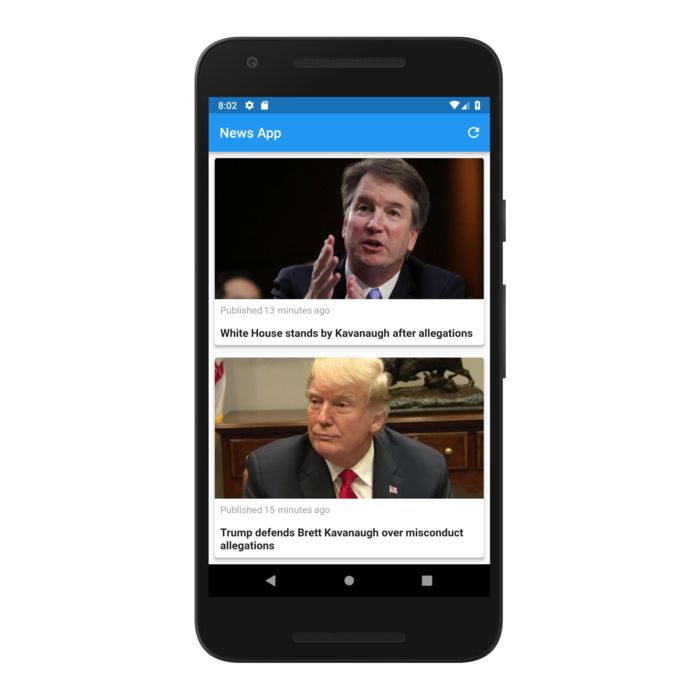
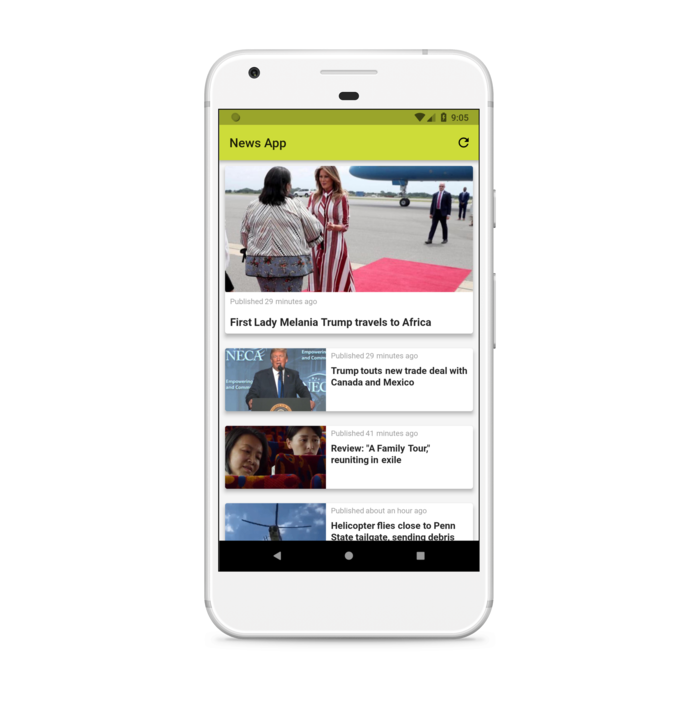
New layout and screenshots

diff --git a/lib/ui/HomeNormal.dart b/lib/ui/HomeNormal.dart
@@ -1,0 +1,73 @@
+import 'package:flutter/material.dart';
+import 'package:timeago/timeago.dart' as timeago;
+import 'package:transparent_image/transparent_image.dart';
+
+class HomeNormal extends StatelessWidget
+{
+    final article;
+
+    HomeNormal(this.article);
+
+    @override
+    Widget build(BuildContext context) {
+        final bool isImageExists = article["urlToImage"] != null;
+
+        final _imageCover = SizedBox(
+            child: isImageExists ?
+                FadeInImage.memoryNetwork(
+                    placeholder: kTransparentImage,
+                    image: article["urlToImage"],
+                    width: 160.0,
+                    height: 100.0,
+                    fit: BoxFit.cover
+                )
+            : null,
+        );
+
+        final _published = Padding(
+            padding: const EdgeInsets.fromLTRB(8.0, 5.0, 4.0, 4.0),
+            child: Text(
+                "Published " + timeago.format(DateTime.parse(article["publishedAt"]), locale: "en"),
+                style: TextStyle(
+                    fontSize: 12.0,
+                    color: Colors.grey[500],
+                ),
+            ),
+        );
+
+        final _title = Padding(
+            padding: const EdgeInsets.fromLTRB(8.0, 4.0, 4.0, 4.0),
+            child: Text(
+                article["title"],
+                style: TextStyle(
+                    fontSize: 15.0,
+                    fontWeight: FontWeight.bold,
+                ),
+            ),
+        );
+
+        return Container(
+            padding: EdgeInsets.fromLTRB(5.0, 5.0, 5.0, 10.0),
+            child: Card(
+                elevation: 5.0,
+                child: Row(
+                    crossAxisAlignment: CrossAxisAlignment.start,
+                    children: <Widget>[
+                        Container(
+                            child: _imageCover,
+                        ),
+                        Expanded(
+                            child: Column(
+                                crossAxisAlignment: CrossAxisAlignment.start,
+                                children: <Widget>[
+                                    _published,
+                                    _title,
+                                ],
+                            ),
+                        ),
+                    ],
+                ),
+            ),
+        );
+    }
+}

diff --git a/lib/ui/HomePage.dart b/lib/ui/HomePage.dart
@@ -5,7 +5,8 @@ import 'package:http/http.dart' as http;
 import 'package:share/share.dart';
 import 'package:connectivity/connectivity.dart';
 
-import 'HomeCell.dart';
+import 'HomeFeatured.dart';
+import 'HomeNormal.dart';
 import 'DetailPage.dart';
 
 const request = 'https://newsapi.org/v2/everything?sources=cbs-news&apiKey=ac9ed44be725499e8d20dd80d113750f';
@@ -39,9 +40,9 @@ class _HomePageState extends State<HomePage> {
         });
     }
 
-    Widget _createGesture(context, article) {
+    Widget _createGestureDetector(context, index, article) {
         return GestureDetector(
-            child: HomeCell(article),
+            child: index == 0 ? HomeFeatured(article) : HomeNormal(article),
             onTap: () {
                 Navigator.push(
                     context,
@@ -68,7 +69,7 @@ class _HomePageState extends State<HomePage> {
         return ListView.builder(
             itemCount: snapshot.data["articles"] == null ? 0 : snapshot.data["articles"].length,
             itemBuilder: (BuildContext context, int index) {
-                return _createGesture(context, snapshot.data["articles"][index]);
+                return _createGestureDetector(context, index, snapshot.data["articles"][index]);
             },
         );
     }
@@ -137,6 +138,7 @@ class _HomePageState extends State<HomePage> {
     Widget build(BuildContext context) {
         return MaterialApp(
             debugShowCheckedModeBanner: false,
+            title: "News App",
             theme: ThemeData(
                 primarySwatch: Colors.lime,
                 hintColor: Colors.cyan,

diff --git a/lib/ui/HomeFeatured.dart b/lib/ui/HomeFeatured.dart
@@ -2,11 +2,11 @@ import 'package:flutter/material.dart';
 import 'package:timeago/timeago.dart' as timeago;
 import 'package:transparent_image/transparent_image.dart';
 
-class HomeCell extends StatelessWidget
+class HomeFeatured extends StatelessWidget
 {
     final article;
 
-    HomeCell(this.article);
+    HomeFeatured(this.article);
 
     @override
     Widget build(BuildContext context) {
@@ -28,6 +28,7 @@ class HomeCell extends StatelessWidget
             child: Text(
                 "Published " + timeago.format(DateTime.parse(article["publishedAt"]), locale: "en"),
                 style: TextStyle(
+                    fontSize: 12.0,
                     color: Colors.grey[500],
                 ),
             ),
@@ -38,7 +39,7 @@ class HomeCell extends StatelessWidget
             child: Text(
                 article["title"],
                 style: TextStyle(
-                    fontSize: 16.0,
+                    fontSize: 17.0,
                     fontWeight: FontWeight.bold,
                 ),
             ),
